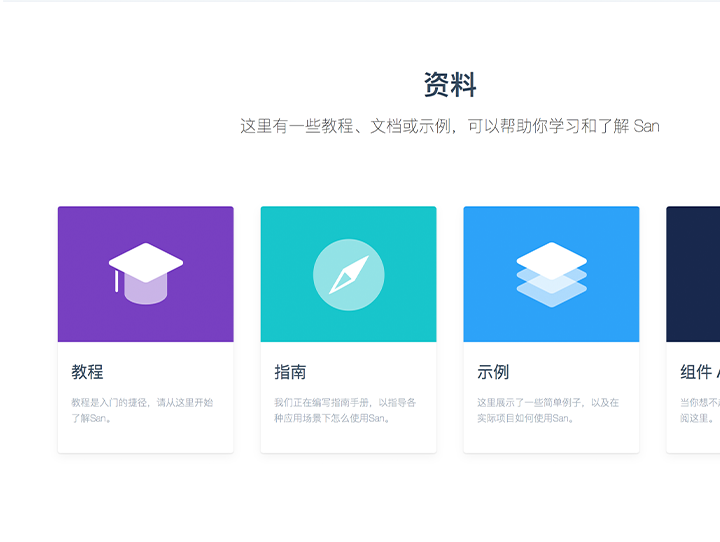
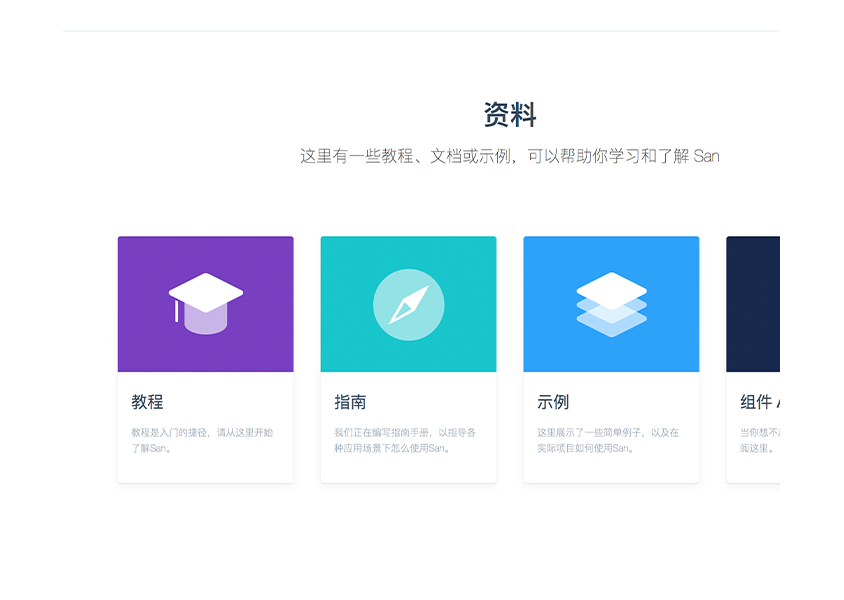
update

diff --git a/Day9&11/index.html b/Day9&11/index.html
@@ -49,25 +49,7 @@
 					<a href="">TRY PRODUCT FOR FREE</a>
 				</div>
 				<div class="infoContainer">
-					<p>资料</p>
-					<p>这里有一些教程，文档或示例，可以帮助你学习</p>
-					<div>
-						<div>
-							<img src="images/tutorial.png">
-							<p>教程</p>
-							<p></p>
-						</div>
-						<div>
-							<img src="images/guide.png">
-							<p>指南</p>
-							<p></p>
-						</div>
-						<div>
-							<img src="images/example.png">
-							<p>示例</p>
-							<p></p>
-						</div>
-					</div>
+					<img src="images/screen.png">
 				</div>
 			</div>
 			<div id="products">

diff --git a/Day9&11/style.css b/Day9&11/style.css
@@ -187,17 +187,11 @@
 }
 
 #policies .infoContainer {
-	margin: 52px 0 48px 38px;
-	background-image: url("images/ipad.png");
-	background-repeat: no-repeat;
+	margin: 52px -10% 48px 38px;
 }
 
-#policies .infoContainer > div {
-	display: flex;
-}
-
-#policies .infoContainer div div {
-	flex: 1;
+#policies .infoContainer > img {
+	object-fit: contain;
 }
 
 #products {
